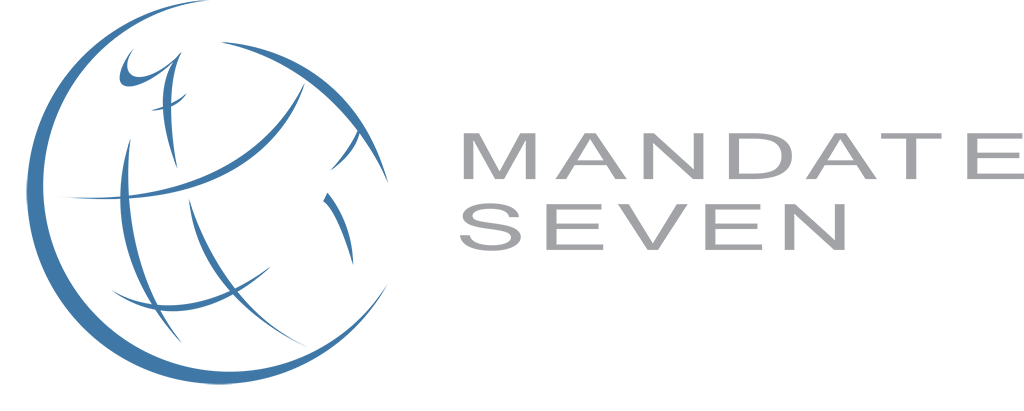
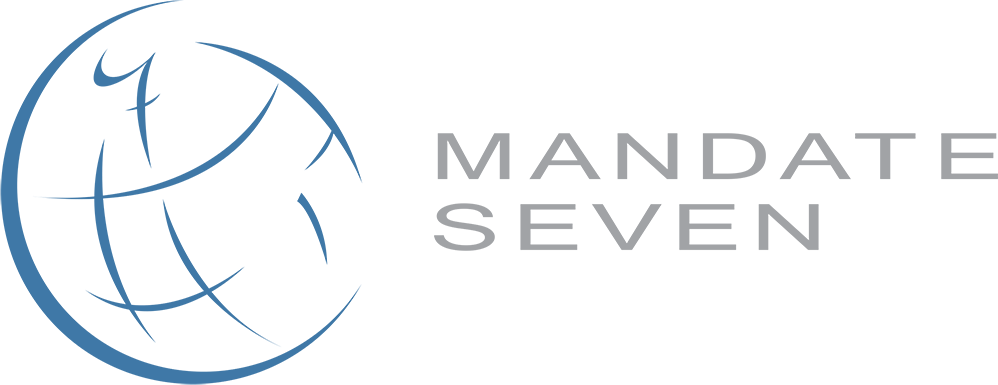
#10292014 update

diff --git a/wp-content/themes/spring/css/theme_default.css b/wp-content/themes/spring/css/theme_default.css
@@ -267,7 +267,7 @@ text-align:center;
 /*==========================================================*/
 #nprogress{pointer-events:none;-webkit-pointer-events:none}
 #nprogress .bar{background:#ffcc00;position:fixed;z-index:1100;top:20px;left:0;width:100%;height:20px}
-.hider{position:fixed;width:100%;height:100%;background-color:#f2f2f2;background-image:url(../img/logo.png);background-position:center;background-repeat:no-repeat;top:0;bottom:0;left:0;right:0;z-index:1000;-webkit-transform:translate3d(-900,-100,5100);background-size:300px 120px}
+.hider{position:fixed;width:100%;height:100%;background:#f2f2f2 url(../img/logo.png) no-repeat center;background-size:300px 116px;top:0;bottom:0;left:0;right:0;z-index:1000;-webkit-transform:translate3d(-900,-100,5100);}
 #nprogress .peg{display:block;position:absolute;right:0;width:100px;height:100%;opacity:1.0;-webkit-transform:rotate(3deg) translate(0px,-4px);-moz-transform:rotate(3deg) translate(0px,-4px);-ms-transform:rotate(3deg) translate(0px,-4px);-o-transform:rotate(3deg) translate(0px,-4px);transform:rotate(3deg) translate(0px,-4px)}
 
 #preloader {
@@ -1776,6 +1776,7 @@ p.address,p.phone,p.email,p.map-link{color:#222;}
  }
  .home-logo {
     background: url(../img/m7midlogo.png) no-repeat center;
+    background-size: 300px 117px;
     width:100%;
     height:100%;
     position: absolute;
@@ -1784,12 +1785,12 @@ p.address,p.phone,p.email,p.map-link{color:#222;}
  }
 
  #company-desc{
-	background:#fff url(../img/breakline.png) no-repeat center 20px;
-	padding:90px 0 60px;
+	background:#fff url(../img/breakline.png) no-repeat center 5px;
+	padding:100px 0 60px;
 	text-align:center;
  }
  #company-desc h2{
-  font-size:48px;
+  font-size:30px;
   color: #222;
  }
  #company-desc  p{
@@ -1855,6 +1856,9 @@ p.address,p.phone,p.email,p.map-link{color:#222;}
   }
    #company-desc{
     background-size: 100%;
+   }
+   #company-desc h2{
+    font-size: 150%;
    }
    .lgbg,.rgbg{
     display: none;

diff --git a/wp-content/themes/spring/index.php b/wp-content/themes/spring/index.php
@@ -162,15 +162,14 @@
 			<div class="border"></div>
 			<div id="contact">
 				<div class="container">
-					<?php echo do_shortcode('[contact-form-7 id="4" title="Contact form 1"]');?>
-					<div class="gmap col-sm-5">
+					<div class="gmap col-sm-6">
 						<div class="cpreloader"><i class="fa fa-spinner fa-spin"></i></div>
 						<div class="embed-responsive">
 							<iframe class="embed-responsive-item" src="https://www.google.com/maps/embed?pb=!1m14!1m8!1m3!1d13907.42458420034!2d47.989586!3d29.374501!3m2!1i1024!2i768!4f13.1!3m3!1m2!1s0x0%3A0xe9c60ceae19750d0!2sMandate+Seven+Advisory!5e0!3m2!1sen!2sph!4v1414415934976" width="100%" height="400" frameborder="0" style="border:0"></iframe>	
 						</div>
 					</div>
-
-					<div class="col-sm-3 address-col">
+					<?php echo do_shortcode('[contact-form-7 id="4" title="Contact form 1"]');?>
+					<!--<div class="col-sm-3 address-col">
 					    <address>
 							<strong>office address.</strong><br/>
 							Mazaya Tower 2, 10th Floor<br/>
@@ -184,7 +183,7 @@
 						  <a href="mailto:info@mandate7.com">info@mandate7.com</a><br/>
 						  <a href="http://www.mandate7.com">www.mandate7.com</a>
 						</address>
-					</div>
+					</div>-->
 					<div class="links">
 						<ul class="clearfix pull-right">
 							<?php if($spring_options!=null and $spring_options['facebook']!='' ){ ?>
